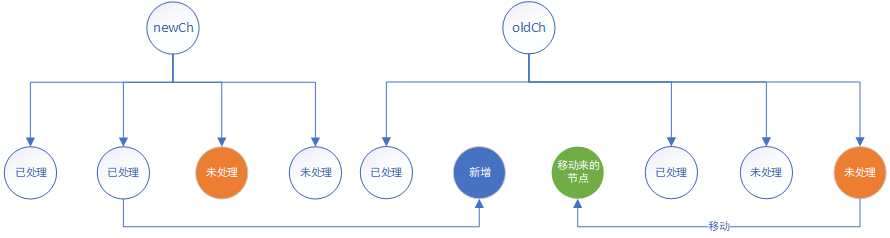
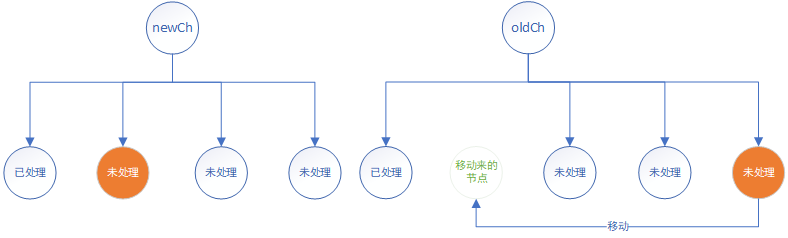
修改diff中的图片

diff --git a/docs/.vuepress/config.js b/docs/.vuepress/config.js
@@ -1,6 +1,6 @@
 const path = require("path");
 module.exports = {
-    title: '高级开发工程师必学',
+    title: 'web全栈体系',
     description: 'Hello, my friend!',
     dest: "dist",
     serviceWorker: true,

diff --git a/docs/vue2.0/vittualdomAndDiff.md b/docs/vue2.0/vittualdomAndDiff.md
@@ -519,7 +519,7 @@ function sameVnode (a, b) {
 
   ![](~@/vue2.0/patch4.png)
   
-  从上图可以看出newCh第三个节点在oldCh里面再没找到时，按照上面的逻辑插入已处理的后面，那么这次新增的节点将会插入oldCh第二位置，那么2个节点的位置就不对应了，应该newCh第三个节点要对应oldCh第三的位置才行，<font color="red">**所以我们新增的节点应该插入未处理的前面就适应各种场景了**</font>。
+  从上图可以看出newCh第三个节点在oldCh里面再没找到时，按照上面的逻辑插入已处理的后面，那么这次新增的节点将会插入oldCh第二位置，那么2个节点的位置就不对应了，应该newCh第三个节点要对应oldCh第三的位置才行，<font color="red">**所以我们新增的节点应该插入未处理的前面就适应各种场景了**</font>
 
 
 2. <font >**删除子节点：**</font>
@@ -530,7 +530,7 @@ function sameVnode (a, b) {
 
 3. <font >**移动子节点：**</font>
 
-  newCh的某个节点跟oldCh每一个节点对比中发现有相同的，但是位置不同，那么我们需要更新oldCh的该节点让其与newCh的相同，在以newCh位置为基准去移动oldCh这个节点的位置
+  newCh的某个节点跟oldCh每一个节点对比中发现有相同的，但是位置不同，那么我们需要更新oldCh的该节点让其与newCh的相同，在以newCh位置为基准去移动oldCh这个节点的位置，可以参考下图中，newCh的第二个节点与oldCh的最后一个节点相同，但位置不同，那么我们需要移动oldCh最后一个节点的位置
 
    ![](~@/vue2.0/patch6.png)
 

diff --git a/docs/README.md b/docs/README.md
@@ -17,6 +17,6 @@ features:
 - title: 工程化
   details: Git、脚本、单元测试、e2e测试、持续集成、部署、前后端分离、多仓库版本管理、代理抓包、内网穿透、mock、远程调试、server-x
 - title: 项目实战
-  details: 有道精品课、蜗牛读书、有道云笔记
+  details: -----
 footer:  MAYI | Copyright © 2020-present(版权所有，转载请注来源)
 ---
